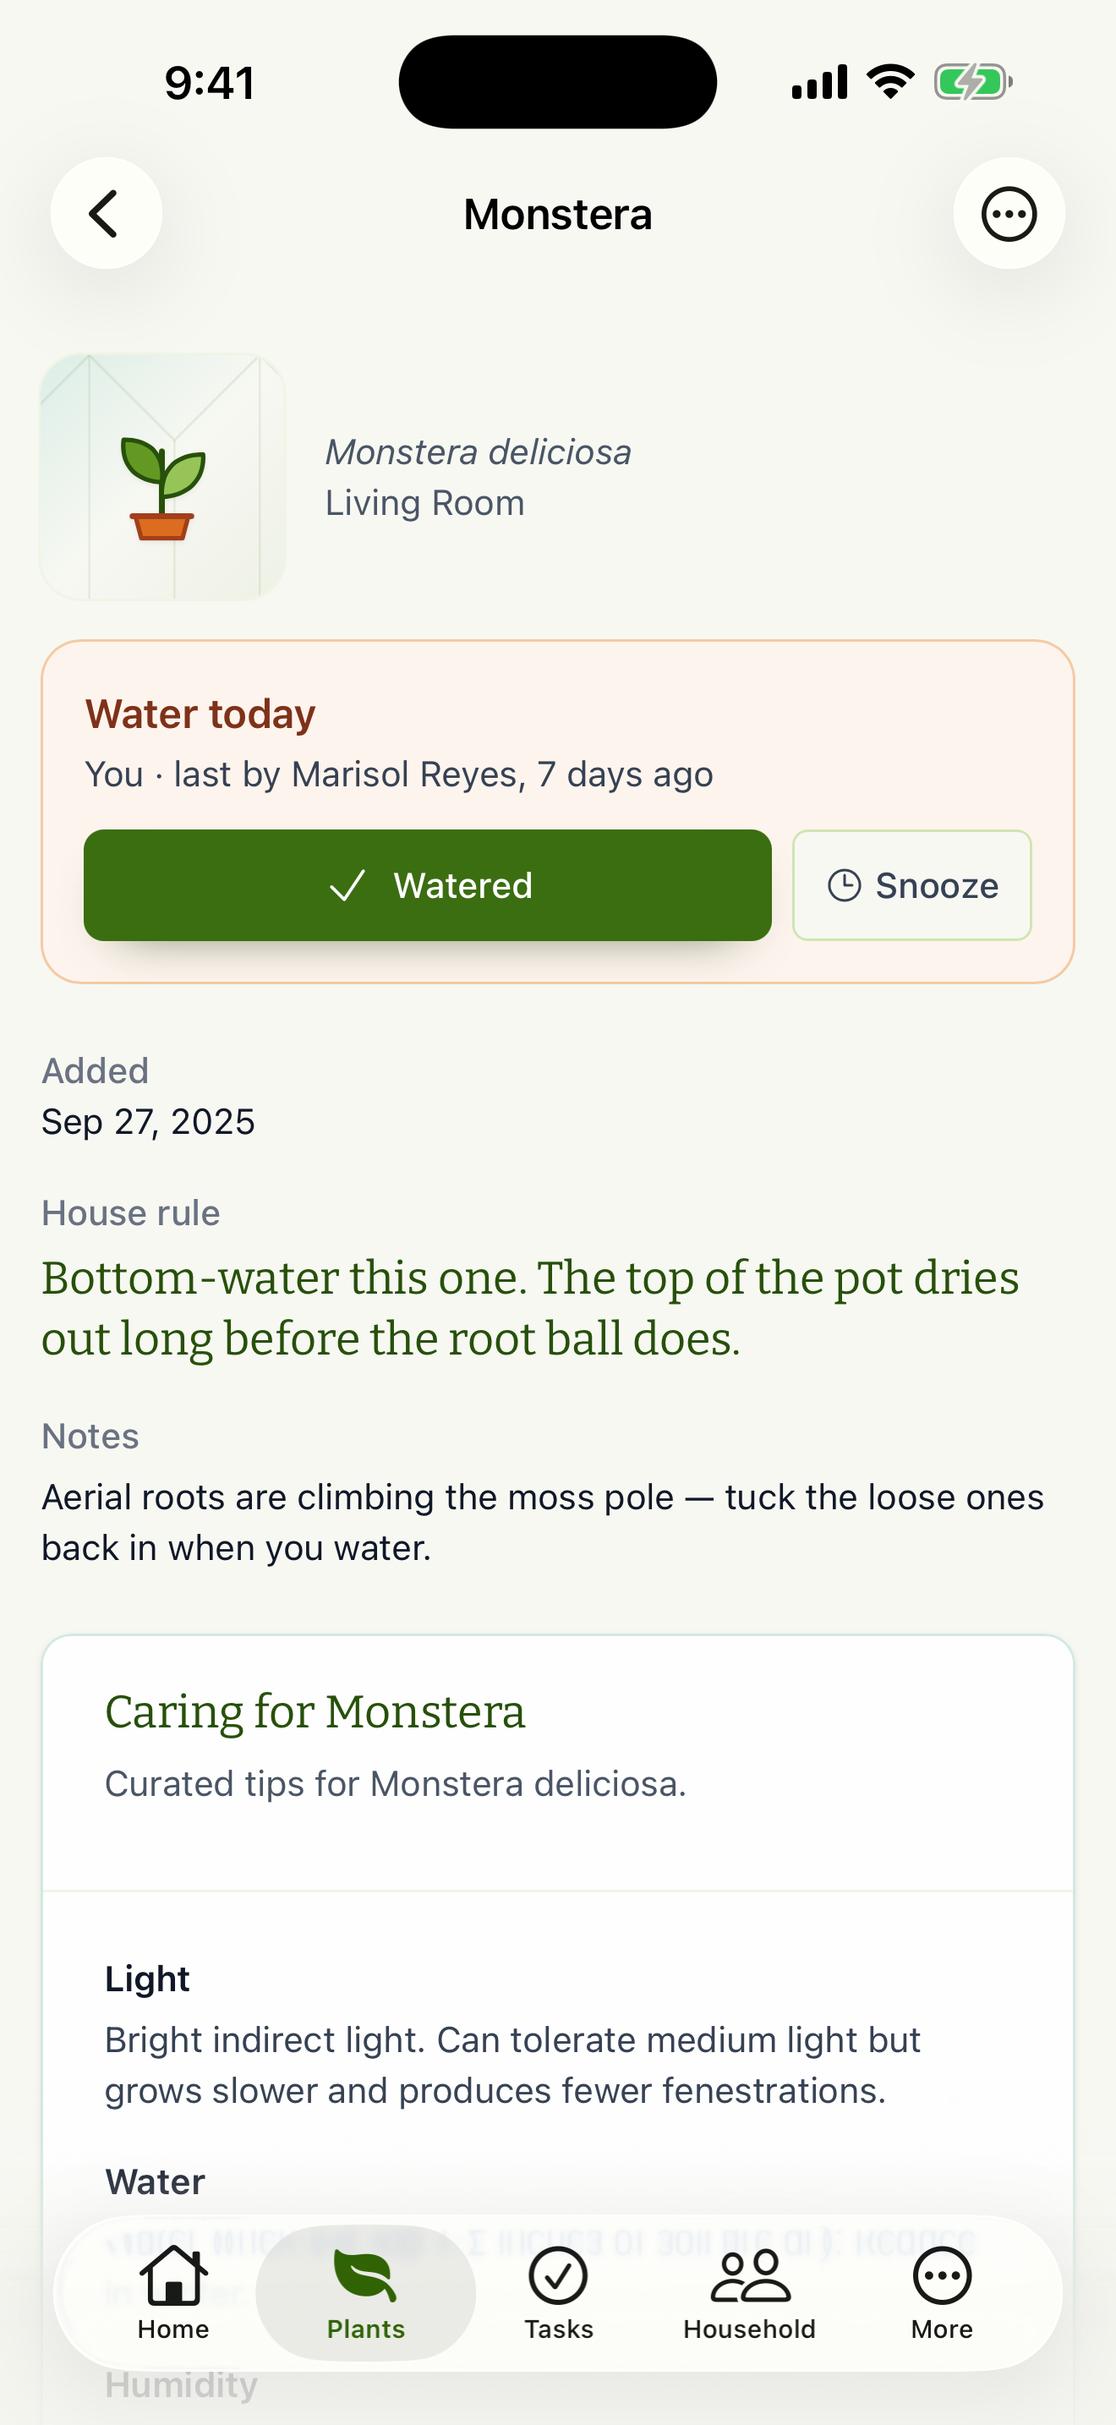
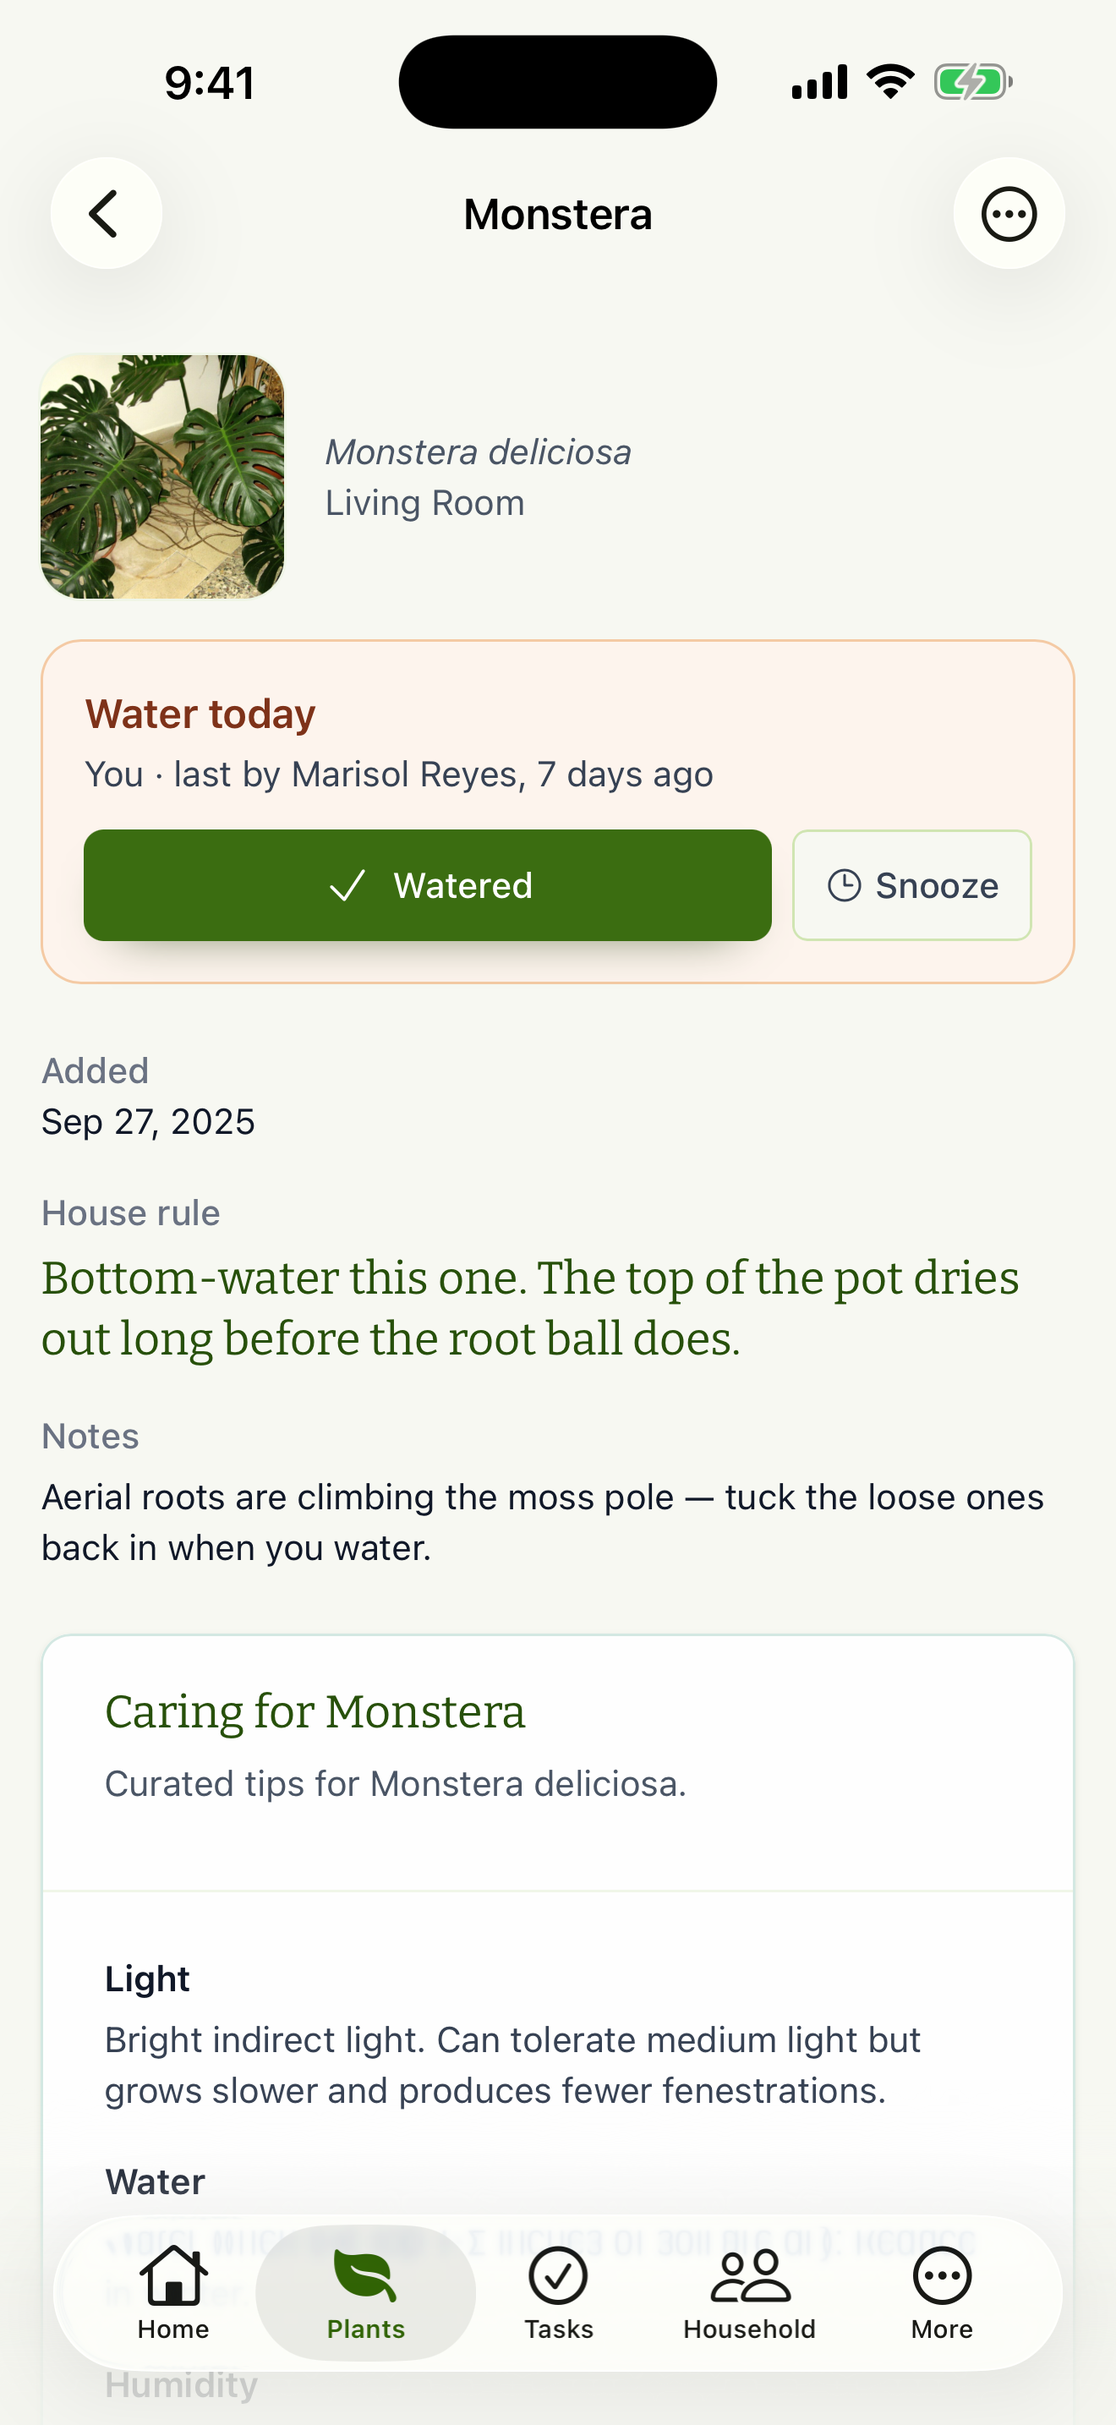
feat(store): show real plant photos in the iphone screenshots
The store capture now uploads a photograph of each demo plant's species
through the app's own photo upload (presign, PUT, confirm), signed in as
the member who added the plant. The eight photos are the photographers'
own work on Wikimedia Commons: seven public domain or CC0, and the
Monstera CC BY 3.0. store-assets/photo-credits.json records each source
page, original URL and SHA-256, author, license and quoted license text,
and the capture refuses a file that no longer matches its record.

Re-takes 01-plants and 03-plant-detail, the only frames that show a plant
image. The other six are unchanged.

Changed region(s): [[0.0311, 0.1241, 0.2795, 0.2483]]

diff --git a/backend/src/local-server-store-demo.ts b/backend/src/local-server-store-demo.ts
@@ -570,10 +570,11 @@ export function seedStoreDemoHousehold(db: StoreDemoDeps): void {
       placementNote: null,
       summerSpaceId: null,
       winterSpaceId: null,
-      // No photograph. Every photo the app can show here would have to be
-      // invented, and an invented picture presented as a household's own plant
-      // is exactly what the "no real user data" rule is protecting against.
-      // The brand placeholder is the honest empty state and is what ships.
+      // No photograph in the seed. The iPhone store capture uploads a credited
+      // public-domain, CC0 or CC BY photo of each species through the photo
+      // upload API (frontend/scripts/store-shots/shots.mjs and
+      // store-assets/photo-credits.json), so every other caller of this seed
+      // keeps the brand placeholder.
       imageUrl: null,
       notes: plant.notes,
       careRule: plant.careRule ?? null,

diff --git a/store-assets/README.md b/store-assets/README.md
@@ -56,25 +56,66 @@ Xcode has copied it. It is never in `src/`, `dist/` or a release build. In
 the app, it types the demo sign-in into the real form, then opens each route
 in `frontend/scripts/store-shots/shots.mjs` (the shot list, in listing
 order) and waits for it to settle. The native bars follow the route as they
-do for a tap. Before the frames are taken, the script also creates one
-plant-sitter link ("Long weekend") through the same API the app calls,
+do for a tap. Before the frames are taken, the script sets the household up
+through the same API the app calls. Each plant gets its photo (see "Plant
+photos" below), and Dana creates one plant-sitter link ("Long weekend"),
 because frame 07 shows the page that link opens. Each PNG is checked for
 size and saved without an alpha channel.
 
-| Frame              | What it shows                                                                                                                                                                                    |
-| ------------------ | ------------------------------------------------------------------------------------------------------------------------------------------------------------------------------------------------ |
-| `01-plants`        | The Plants tab: large title, the ⋯, filter and + buttons in the native bar, the search field, then "Needs care" (5 plants, each with who holds it and a round water button) and "Coming up" (3). |
-| `02-home`          | Home: the large title, the day's counts, and "To do now" with the overdue Peace Lily up for grabs and today's jobs held by named members.                                                        |
-| `03-plant-detail`  | The Monstera, opened from the list: back chevron and ⋯ menu, the status card ("Water today", held by you, last done by Marisol Reyes, Watered and Snooze), its house rule and note.              |
-| `04-plant-care`    | Further down the same page: the curated care tips for _Monstera deliciosa_ and its weekly watering task with its streak.                                                                         |
-| `05-tasks`         | The Tasks checklist: the filter button in the native bar, Today and Upcoming (5 each), the overdue Peace Lily first, then today's four, each with a check circle and who holds it.               |
-| `06-household`     | Household: who did the care in the last 30 days, who holds what now, and the four jobs nobody holds.                                                                                             |
-| `07-sitter`        | The page a plant-sitter link opens: what needs doing and in which room, with Done buttons and no account, until the link expires.                                                                |
-| `08-notifications` | Settings, Notifications: the email reminder, weekly digest and household email settings as switches.                                                                                             |
+| Frame              | What it shows                                                                                                                                                                                               |
+| ------------------ | ----------------------------------------------------------------------------------------------------------------------------------------------------------------------------------------------------------- |
+| `01-plants`        | The Plants tab: large title, the ⋯, filter and + buttons in the native bar, the search field, then "Needs care" (5 plants, each with its photo, who holds it and a round water button) and "Coming up" (3). |
+| `02-home`          | Home: the large title, the day's counts, and "To do now" with the overdue Peace Lily up for grabs and today's jobs held by named members.                                                                   |
+| `03-plant-detail`  | The Monstera, opened from the list: back chevron and ⋯ menu, its photo, the status card ("Water today", held by you, last done by Marisol Reyes, Watered and Snooze), its house rule and note.              |
+| `04-plant-care`    | Further down the same page: the curated care tips for _Monstera deliciosa_ and its weekly watering task with its streak.                                                                                    |
+| `05-tasks`         | The Tasks checklist: the filter button in the native bar, Today and Upcoming (5 each), the overdue Peace Lily first, then today's four, each with a check circle and who holds it.                          |
+| `06-household`     | Household: who did the care in the last 30 days, who holds what now, and the four jobs nobody holds.                                                                                                        |
+| `07-sitter`        | The page a plant-sitter link opens: what needs doing and in which room, with Done buttons and no account, until the link expires.                                                                           |
+| `08-notifications` | Settings, Notifications: the email reminder, weekly digest and household email settings as switches.                                                                                                        |
 
 `npm run mobile:validate` runs in CI (the `Lint` job) and checks every size,
 every character limit, native/`package.json` version parity, and secrets
 hygiene. It is the gate; this file is the context it cannot encode.
+
+## Plant photos
+
+The iPhone capture gives each of the eight demo plants a photograph of its
+species. They are in `frontend/scripts/store-shots/photos/`, and only the
+capture reads them: no app build, seed, test or user account includes them.
+`setUpDemoHousehold` in `shots.mjs` signs in as the member who added each
+plant and adds the photo the way the app does: it asks the API for an
+upload URL, uploads the bytes, and confirms. A plant that already has a
+photo is skipped.
+
+Every photo is the photographer's own work on Wikimedia Commons, in the
+public domain, CC0, or CC BY. The license was read on the Commons file page
+itself, and the original file's SHA-1 matched the one Commons publishes.
+None shows a person, a brand, a label, a watermark or any text. Each was
+cropped to a square, resized to 800 x 800, re-encoded as JPEG and stripped
+of metadata. `store-assets/photo-credits.json` records, for each one, the
+source page, the original file's URL and SHA-256, the author, the license
+with the license text quoted, and how the species was identified. The
+capture refuses to upload a file whose SHA-256 doesn't match its record, so
+a photo can't change without its credit changing too.
+
+| Plant           | Species                  | Photo                                                                                                                                                  | Author         | License       |
+| --------------- | ------------------------ | ------------------------------------------------------------------------------------------------------------------------------------------------------ | -------------- | ------------- |
+| Monstera        | _Monstera deliciosa_     | [Rostlina na chodbě](https://commons.wikimedia.org/wiki/File:Rostlina_na_chodb%C4%9B.jpg)                                                              | Dezidor        | CC BY 3.0     |
+| Fiddle Leaf Fig | _Ficus lyrata_           | [Geigenfeige blatt](https://commons.wikimedia.org/wiki/File:Geigenfeige_blatt.jpg)                                                                     | Mantelmoewe    | CC0 1.0       |
+| Golden Pothos   | _Epipremnum aureum_      | [Epipremnum aureum](https://commons.wikimedia.org/wiki/File:Epipremnum_aureum.jpg)                                                                     | Sergei         | Public domain |
+| Aloe            | _Aloe vera_              | [Potted Aloe vera plant](https://commons.wikimedia.org/wiki/File:Potted_Aloe_vera_plant.jpg)                                                           | Arjun01        | Public domain |
+| Snake Plant     | _Dracaena trifasciata_   | [Snake plant … Waoleona Buton Island 02](<https://commons.wikimedia.org/wiki/File:Snake_plant_(Sansevieria_trifasciata)_Waoleona_Buton_Island_02.jpg>) | David E Mead   | CC0 1.0       |
+| Peace Lily      | _Spathiphyllum wallisii_ | [Lepelplant 16](https://commons.wikimedia.org/wiki/File:Lepelplant_16.JPG)                                                                             | TUFOWKTM       | Public domain |
+| ZZ Plant        | _Zamioculcas zamiifolia_ | [Plants in my Home garden 2026 August 15](https://commons.wikimedia.org/wiki/File:Plants_in_my_Home_garden_2026_August_15.jpg)                         | Rajasekhar1961 | CC0 1.0       |
+| Jade Plant      | _Crassula ovata_         | [Crassula Ovata Geldpflanze 32 Jahte alt](https://commons.wikimedia.org/wiki/File:Crassula_Ovata_Geldpflanze_32_Jahte_alt.jpg)                         | NormanSchwarz  | CC0 1.0       |
+
+The Monstera photo is CC BY 3.0, so wherever these screenshots are used it
+needs this credit: "Rostlina na chodbě" by Dezidor,
+[CC BY 3.0](https://creativecommons.org/licenses/by/3.0/), via Wikimedia
+Commons, cropped, resized and re-encoded. The app has no screen for
+third-party credits, and a screenshot can't carry a caption. The credit is
+in this file and in `photo-credits.json`. Where else it goes is the owner's
+call. To replace a photo, change its file and its record together.
 
 ## What each field is doing
 
@@ -116,17 +157,12 @@ health guarantees appear anywhere in the metadata, and none should be added.
 
 The artwork validates, but validating is not the same as selling:
 
-- **No plant photographs in any frame.** Every plant in the store-demo
-  household has no `imageUrl`, so all eight cards, the plant-detail hero and
-  the phone plant-detail frame — which is mostly hero image — render the brand
-  placeholder, and `PhotoTimeline` (which needs two photos) never appears. The
-  fixture supports photos: `db.photos` rows pointing at `/mock-images/…`
-  objects would populate the strip. What it cannot supply is a photograph.
-  Inventing one and presenting it as this household's own plant is the thing
-  the no-real-user-data rule exists to prevent, and a synthetic gradient
-  standing in for a photo would read as a placeholder anyway. Real photos of
-  real plants, consented and owned, are what this needs — after which the
-  seed's `imageUrl` and `db.photos` are the two places to put them.
+- **The plant photos are stand-ins, and only the iPhone frames have them.**
+  Each demo plant shows a real photograph of its species, credited above,
+  not a photo the invented household took. The Playwright capture (iPad and
+  Google Play) uploads none, so those frames still show the brand
+  placeholder. With one photo per plant, `PhotoTimeline` (which needs two)
+  never appears.
 - **No caption overlays.** These are raw device frames. Both stores allow
   captioned marketing frames and nearly every competitor uses them.
 - **The iPad and Play frames still show the web layout with the menu

diff --git a/docs/APP-STORE.md b/docs/APP-STORE.md
@@ -326,9 +326,9 @@ The iPad frames come from `npm run store:screenshots --workspace frontend`
 
 | #   | iPhone frame  | Real content                                                                                                                                                                                                                                                                                                                                             |
 | --- | ------------- | -------------------------------------------------------------------------------------------------------------------------------------------------------------------------------------------------------------------------------------------------------------------------------------------------------------------------------------------------------- |
-| 01  | Plants        | The Plants tab: the large title, the ⋯, filter and + buttons in the native navigation bar, the search field, and the list led by "Needs care": 5 plants with what each needs, its room, who holds it ("You", a member's initial, or up for grabs) and a round water button; then "Coming up" with 3 more.                                                |
+| 01  | Plants        | The Plants tab: the large title, the ⋯, filter and + buttons in the native navigation bar, the search field, and the list led by "Needs care": 5 plants with what each needs, its room, who holds it ("You", a member's initial, or up for grabs) and a round water button; then "Coming up" with 3 more. Each plant shows its photo.                    |
 | 02  | Home          | Dana's Home tab with its large title: 8 plants, 4 due today, 1 overdue; "To do now" with the overdue Peace Lily up for grabs and today's Monstera held by Dana Whitfield.                                                                                                                                                                                |
-| 03  | Plant detail  | The Monstera, opened from Plants (back chevron, title and ⋯ menu in the navigation bar): the status card ("Water today", "You · last by Marisol Reyes, 7 days ago", Watered and Snooze), the house rule ("Bottom-water this one") and the household's note. The thumbnail is the brand placeholder image, not a photo.                                   |
+| 03  | Plant detail  | The Monstera, opened from Plants (back chevron, title and ⋯ menu in the navigation bar): the status card ("Water today", "You · last by Marisol Reyes, 7 days ago", Watered and Snooze), the house rule ("Bottom-water this one") and the household's note. The thumbnail is its photo.                                                                  |
 | 04  | Plant care    | The same page further down: the curated care tips for _Monstera deliciosa_ (light, water, humidity, notes) and its weekly watering task with its streak.                                                                                                                                                                                                 |
 | 05  | Tasks         | The Tasks tab as a checklist: the large title, the filter button in the native navigation bar, and Today / Upcoming (5 each). "Overdue" leads with the Peace Lily (water, 1 day overdue, Bedroom, up for grabs), then "Today" with Aloe (up for grabs), Fiddle Leaf Fig ("T"), Golden Pothos ("M") and Monstera ("You"), each with a round check circle. |
 | 06  | Household     | The Household tab: "Who's carrying the care", with each member's care in the last 30 days and jobs held now, and 4 jobs up for grabs.                                                                                                                                                                                                                    |
@@ -341,11 +341,12 @@ as the iPad set, plus `app-icon-512.png` and `feature-graphic-1024x500.png`.
 Known gaps in this set, carried over from `store-assets/README.md` and
 still true — worth fixing before they're needed, not hidden:
 
-- **No plant photographs in any frame.** Every plant in the store-demo
-  household has no `imageUrl`, so the plant-detail hero and card images all
-  render the brand placeholder rather than a photo. Fixing this needs real,
-  consented photographs of real plants added to the seed — not a synthetic
-  or stock image standing in for "this household's plant."
+- **The plant photos are not the household's own.** The iPhone capture
+  gives each demo plant a photograph of its species from Wikimedia Commons
+  (public domain, CC0 or CC BY), uploaded through the app's own photo
+  upload. Sources, authors and licenses are in
+  `store-assets/photo-credits.json` and `store-assets/README.md`. The iPad
+  and Google Play frames still show the brand placeholder.
 - **No caption overlays.** These are raw device frames; both stores support
   captioned marketing frames and most competitors use them.
 - **No Android tablet screenshots**, despite the iPad frames proving the
